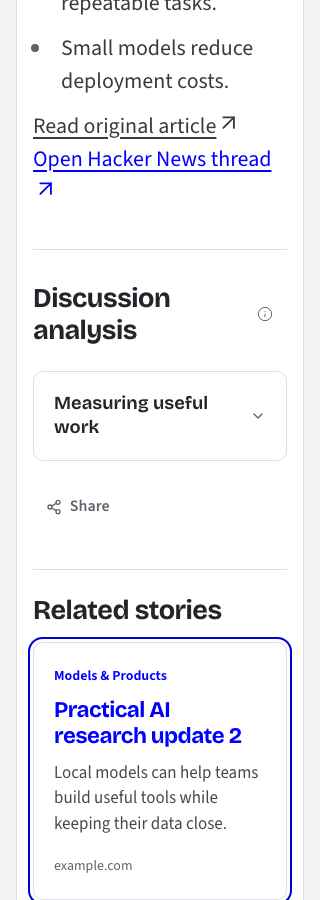
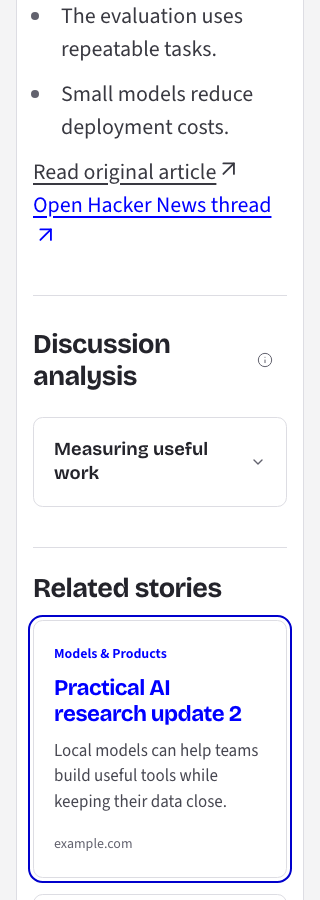
Remove repeated share control above related stories

diff --git a/hacksnap/web/app/story/[id]/story-content.tsx b/hacksnap/web/app/story/[id]/story-content.tsx
@@ -247,9 +247,6 @@ export function StoryContent({
           </p>
         </section>
       )}
-      <div className="story-end-share">
-        <StoryShare story={story} placement="story_end" />
-      </div>
       {relatedSection ?? (
         <RelatedStories
           category={category}

diff --git a/hacksnap/web/app/globals.css b/hacksnap/web/app/globals.css
@@ -926,9 +926,6 @@ body:has(#browse-content) .skip-browse {
 .story-added time {
   font: inherit;
 }
-.story-end-share {
-  margin-top: var(--space-4);
-}
 #discussion-analysis {
   scroll-margin-top: var(--space-6);
 }

diff --git a/anti-slop/audit-001-2026-10-08.md b/anti-slop/audit-001-2026-10-08.md
@@ -22,6 +22,7 @@ editorial UI, with ENERGY 2 / RHYTHM 2 / MOTION 1.
 | Low | R-05/R-20: discussion rows were cramped and their open state was weak. | Shared-radius disclosure cards, 20px padding, consistent chevrons and a blue open state. Older articles use the same styling. |
 | Low | R-31/R-32: source icons floated at title-dependent positions. | A labelled source-comment action sits inside each expanded theme; summaries contain only the disclosure content. |
 | Low | R-31: article metadata differed from Latest and navigation repeated a back link. | Reused CategoryBadge, StoryAge and story-context; removed the extra back link while preserving journey-aware breadcrumbs. |
+| Low | R-31: the repeated Share control interrupted the transition to Related stories. | Removed the lower Share control at the user's request; sharing remains in the header. |
 
 ## Reasons for the visual choices
 

diff --git a/hacksnap/web/README.md b/hacksnap/web/README.md
@@ -47,7 +47,8 @@ Article headers reuse the feed's category and compact relative age; the exact da
 is available through the same native disclosure. The Latest/topic breadcrumbs
 preserve the reading journey without a duplicate “Back to” link. Discussion themes
 use bordered disclosure cards, with a blue open state and labelled source-comment
-actions inside the expanded text. Related stories use compact feed-style cards
+actions inside the expanded text. Sharing remains in the article header, without
+a repeated control above Related stories. Related stories use compact feed-style cards
 with takeaways, full-card links and explicit loading, empty and unavailable states.
 
 `app/globals.css` owns the semantic theme colors, relative type scale, spacing,
